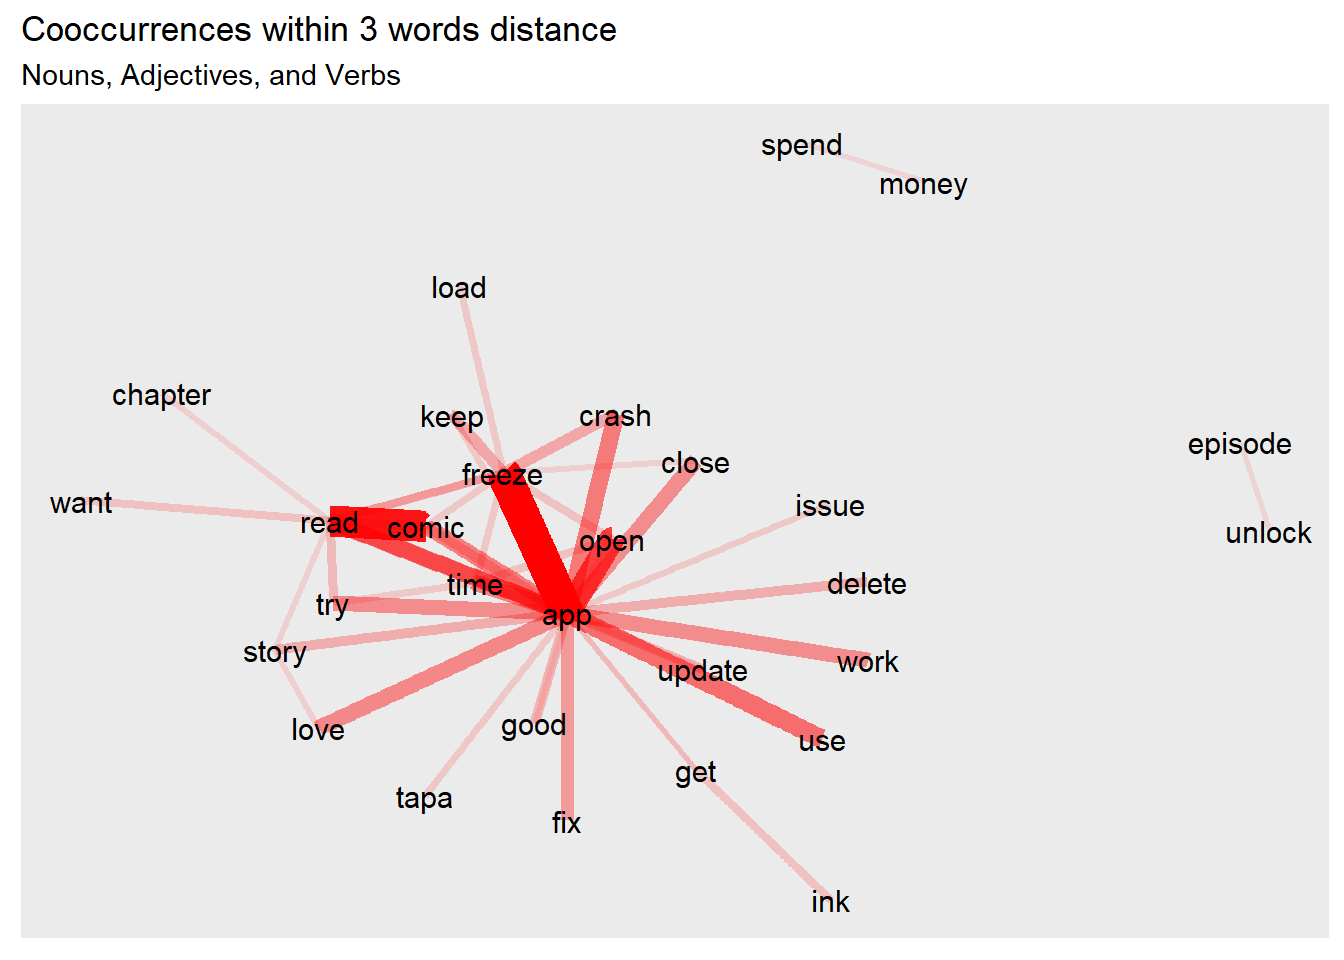
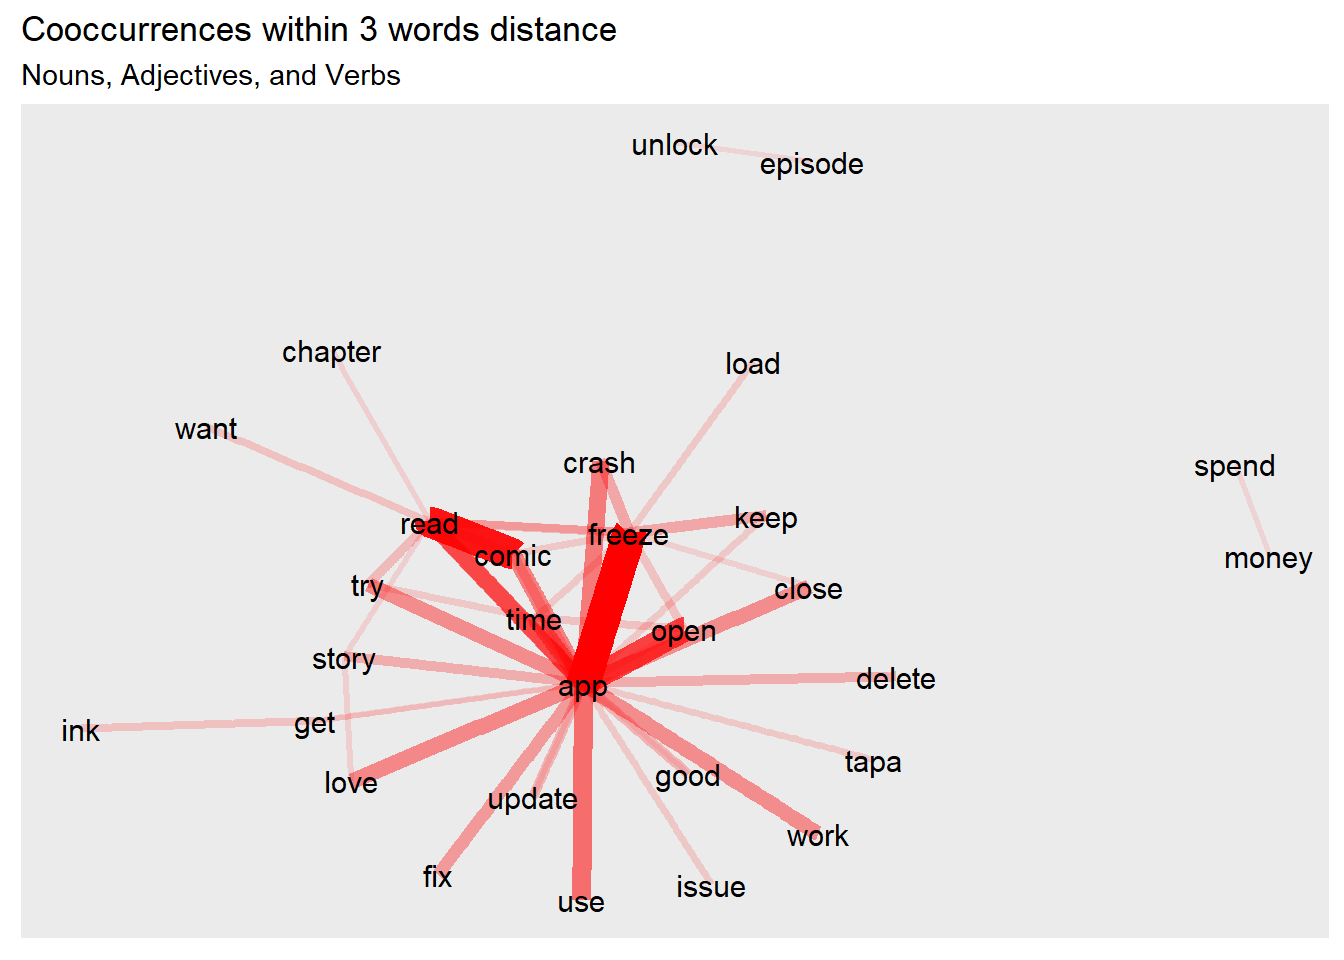
update post

diff --git a/content/post/text-mining-app-store-reviews/index.html b/content/post/text-mining-app-store-reviews/index.html
@@ -44,12 +44,33 @@ reviews &lt;- appler::get_apple_reviews(578836126, country = &#39;us&#39;, all_r
 <p>The Tapas app’s average rating was steadily growing up until July 2021, at which point the rating dips. By September, the average rating was essentially back where it started. So what happened in July-September 2021 that caused the rating to fall?</p>
 <p><img src="{{< blogdown/postref >}}index_files/figure-html/unnamed-chunk-7-1.png" width="672" /></p>
 <p>If we plot version rollouts over time, we see that version 5.10 (the dark blue area) was the most prevalent version in September 2021, when ratings dipped. Sure enough, when we plot average ratings by app version, we can see that version 5.10 had the lowest rating since version 5.5.</p>
+<pre class="r"><code>avg_rating_by_ver &lt;- reviews %&gt;% 
+  mutate(highlight_flag = case_when(
+    app_version_clean == &#39;5.10&#39;  ~ T,
+    T ~ F
+  )) %&gt;%
+  group_by(app_version_clean, highlight_flag) %&gt;%
+  summarize(avg_rating = mean(rating)) %&gt;%
+  arrange(app_version_clean)</code></pre>
 <pre><code>## `summarise()` has grouped output by &#39;app_version_clean&#39;. You can override using the `.groups` argument.</code></pre>
+<pre class="r"><code>ggplot(avg_rating_by_ver, aes(x = app_version_clean, y = avg_rating, fill = highlight_flag)) + 
+  geom_bar(stat = &#39;identity&#39;) +
+  labs(title = &#39;Average ratings peaked with ver. 5.9 and dipped with ver. 5.10.&#39;,
+       subtitle = &#39;Average Rating by App Version&#39;,
+       x = &#39;App Version&#39;, 
+       y = &#39;Average Rating&#39;) +
+  theme_light() +
+  theme(panel.grid.major = element_blank(), 
+        panel.grid.minor = element_blank(),
+        legend.position = &#39;none&#39;) +
+  scale_fill_manual(values = my_palette) +
+  ylim(0, 5) +
+  geom_text(aes(label = formatC(avg_rating, format = &#39;f&#39;, digits = 2)), vjust = -0.8)</code></pre>
 <p><img src="{{< blogdown/postref >}}index_files/figure-html/unnamed-chunk-8-1.png" width="672" /></p>
 <p>So with EDA, we discovered that <strong>ratings were growing steadily until version 5.9, and then the Tapas app experienced a dramatic dip with version 5.10.</strong> Now that we know the <em>what</em>, we can think about the <em>why</em>: stakeholders at Tapas would want to know <em>why</em> the dip happened, so they can avoid a similar situation in the future.</p>
 </div>
-<div id="text-mining" class="section level2">
-<h2>Text Mining</h2>
+<div id="text-mining-what-is-driving-these-patterns" class="section level2">
+<h2>Text Mining: What is driving these patterns?</h2>
 <p>So far we’ve only been looking at ratings, but there’s a whole gold-mine of information we’ve yet to touch: the reviews! There are hundreds of ways you can analyze text data. I’ll focus on two popular approaches: <strong>sentiment analysis</strong> and <strong>keyword extraction</strong>.</p>
 <div id="text-cleaning-and-sentiment-analysis" class="section level3">
 <h3>Text Cleaning and Sentiment Analysis</h3>
@@ -61,13 +82,41 @@ reviews &lt;- appler::get_apple_reviews(578836126, country = &#39;us&#39;, all_r
 (<em>These scores are pulled from “lexicons” assembled by literary researchers. I’m using Syuzhet, <a href="https://www.rdocumentation.org/packages/syuzhet/versions/1.0.6">the default lexicon in the syuzhet package that was developed in the Nebraska Literary Lab</a>.</em>)</p>
 <p>After we calculate a sentiment score for every review, we can identify “negative”, “positive” or “neutral” reviews (i.e., reviews with a negative, positive, or zero sentiment score respectively).</p>
 <p>So if we saw relatively poor ratings on version 5.10, we should also see more negative sentiment. Sure enough, if we plot sentiment by app version, we see exactly that.</p>
+<pre class="r"><code>sent_ver &lt;- reviews %&gt;% 
+  group_by(app_version_clean, sentiment_direction) %&gt;%
+  summarize(percentage = n())
+
+my_palette &lt;- c(red, yellow, green)
+
+ggplot(sent_ver, aes(fill = sentiment_direction, x = app_version_clean, y = percentage)) +  
+  geom_bar(position = &#39;fill&#39;, stat = &#39;identity&#39;) +
+  labs(title = &#39;Users left more negative reviews on ver. 5.10.&#39;,
+       subtitle = &#39;Sentiment by App Version&#39;,
+       x = &#39;App Version&#39;, 
+       y = &#39;Percent of Reviews&#39;) +
+  theme_light() +
+  theme(panel.grid.major = element_blank(), 
+        panel.grid.minor = element_blank()) +
+  scale_y_continuous(labels = scales::percent) + 
+  scale_fill_manual(name = &#39;Sentiment&#39;, values = my_palette)</code></pre>
 <p><img src="{{< blogdown/postref >}}index_files/figure-html/unnamed-chunk-12-1.png" width="672" /></p>
 <p>So what are these negative reviews talking about? If we look at a few examples, we can see some pain points that users are experiencing.</p>
 <p><img src="images/negative_reviews.png" /></p>
 <p>One of the users mentions “crash” and another one mentioned “ink”, which is Tapas’ in-app currency for purchasing premium content. The word cloud below shows some of the most common words associated with mentions of “crash,” “freeze” or “bug”. The other word cloud shows the most common words associated with “ink”.</p>
+<pre class="r"><code>#grepl(&#39;crash|freeze&#39;, review_cleaned)
+crash &lt;- reviews %&gt;% filter(sentiment_direction == &#39;negative&#39;) 
+crash_words &lt;- crash %&gt;% 
+  select(review_cleaned) %&gt;%
+  unnest_tokens(output = word, input = review_cleaned) %&gt;%
+  count(word, sort = TRUE)
+
+colfun &lt;- colorRampPalette(c(lightred, red))
+set.seed(123) # for reproducibility 
+wordcloud(words = crash_words$word, freq = crash_words$n, min.freq = 5, max.words=200, random.order=FALSE, rot.per=0.35, col = colfun(8))</code></pre>
+<p><img src="{{< blogdown/postref >}}index_files/figure-html/unnamed-chunk-15-1.png" width="672" /></p>
 </div>
-<div id="topic-modeling" class="section level3">
-<h3>Topic Modeling</h3>
+<div id="keyword-extraction" class="section level3">
+<h3>Keyword Extraction</h3>
 <pre class="r"><code>complaints &lt;- reviews %&gt;%
   unnest_tokens(output = sentence, input = review, token = &#39;sentences&#39;) %&gt;%
   select(rating, sentence) %&gt;%
@@ -166,7 +215,7 @@ ggraph(wordnetwork, layout = &quot;fr&quot;) +
   geom_node_text(aes(label = name), size = 4) +
   theme(legend.position = &quot;none&quot;) +
   labs(title = &quot;Cooccurrences within 3 words distance&quot;, subtitle = &quot;Nouns, Adjectives, and Verbs&quot;)</code></pre>
-<p><img src="{{< blogdown/postref >}}index_files/figure-html/unnamed-chunk-21-1.png" width="672" /></p>
+<p><img src="{{< blogdown/postref >}}index_files/figure-html/unnamed-chunk-22-1.png" width="672" /></p>
 <pre class="r"><code>stats &lt;- keywords_rake(x = complaint_data, term = &#39;lemma&#39;, group = &#39;doc_id&#39;, relevant = complaint_data$upos %in% c(&#39;NOUN&#39;, &#39;ADJ&#39;, &#39;VERB&#39;))
 
 stats_chart &lt;- stats %&gt;% 
@@ -180,7 +229,7 @@ ggplot(stats_chart, aes(x = keyword, y = rake)) +
   coord_flip() + 
   labs(x = &#39;RAKE&#39;, y = &#39;Keyword&#39;) + 
   ggtitle(&#39;Most common keywords identified by RAKE&#39;)</code></pre>
-<p><img src="{{< blogdown/postref >}}index_files/figure-html/unnamed-chunk-22-1.png" width="672" /></p>
+<p><img src="{{< blogdown/postref >}}index_files/figure-html/unnamed-chunk-23-1.png" width="672" /></p>
 <pre class="r"><code>reviews &lt;- reviews %&gt;% mutate(crash_flag = grepl(&#39;crash|freez|bug|fix&#39;, review_cleaned))
 
 crash_month &lt;- reviews %&gt;% 
@@ -208,6 +257,6 @@ plot2 &lt;- ggplot(crash_ver, aes(fill = crash_flag, x = app_version_clean, y = 
   theme_light()
 
 grid.arrange(plot1, plot2, nrow = 2)</code></pre>
-<p><img src="{{< blogdown/postref >}}index_files/figure-html/unnamed-chunk-23-1.png" width="672" /></p>
+<p><img src="{{< blogdown/postref >}}index_files/figure-html/unnamed-chunk-24-1.png" width="672" /></p>
 </div>
 </div>
